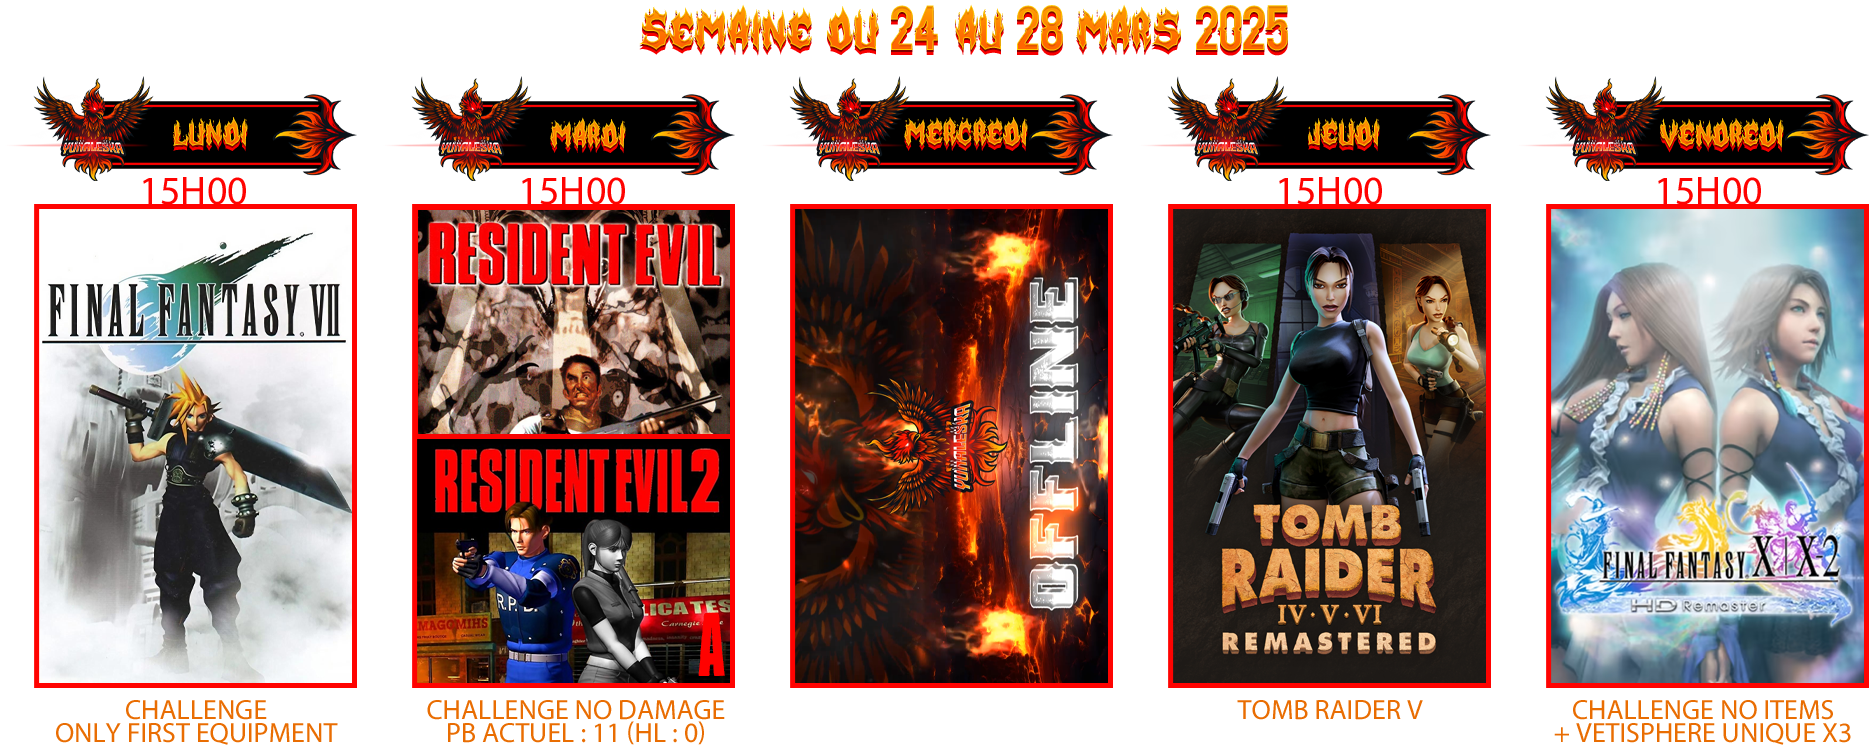
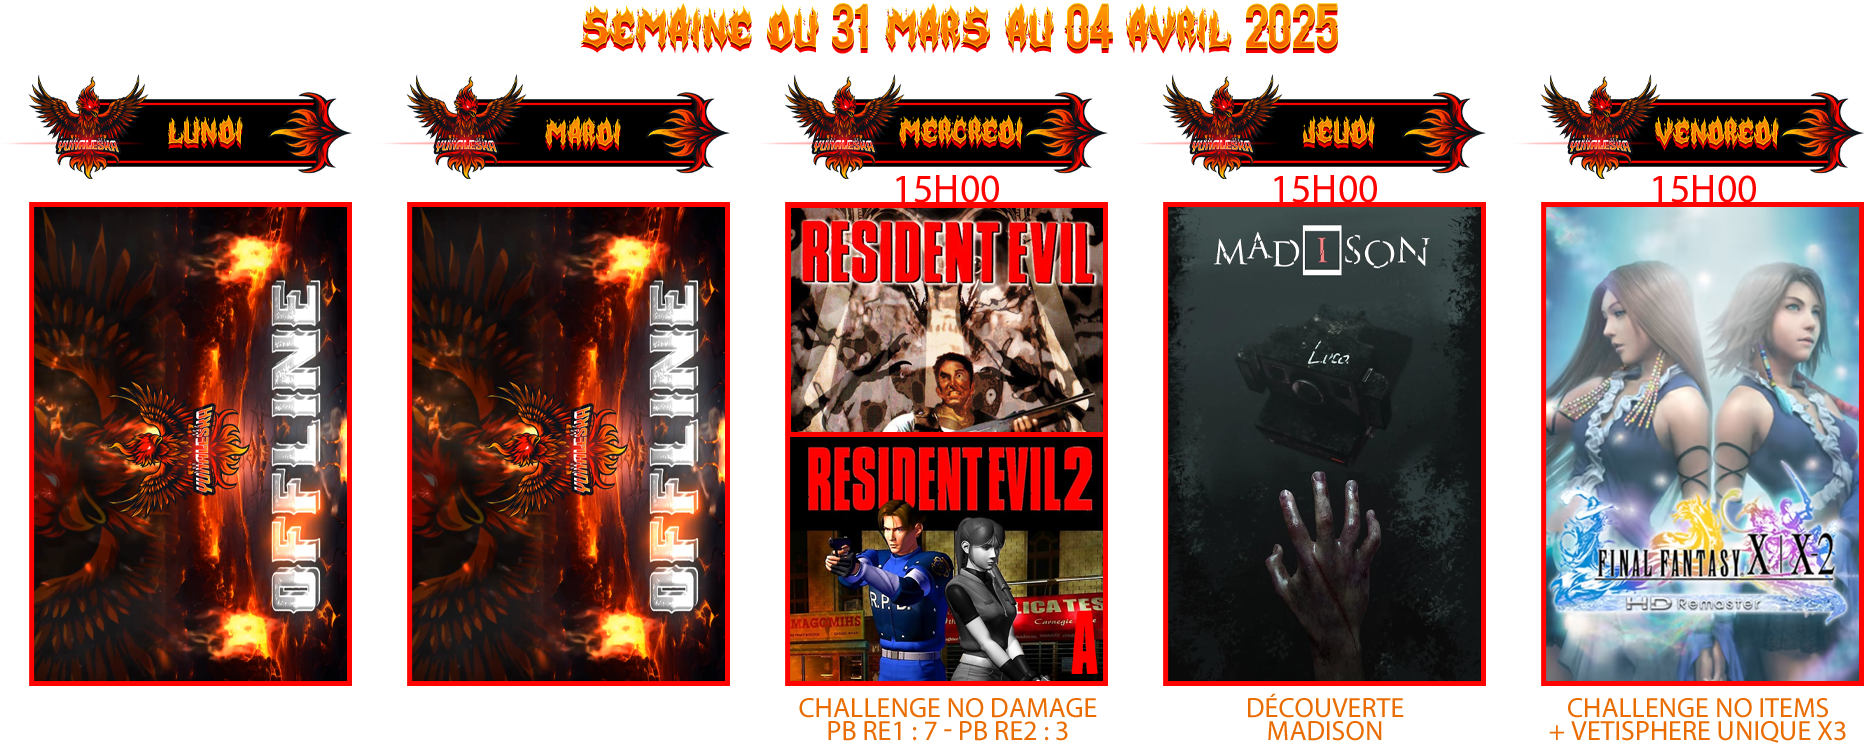
weekly update and new schedule added

diff --git a/index.html b/index.html
@@ -13,6 +13,7 @@
 		<link rel="stylesheet" href="https://use.fontawesome.com/releases/v5.3.1/css/all.css" />
 		<script type="module" src="assets/scripts/utils.js"></script>
 		<script type="module" src="assets/scripts/index.js"></script>
+		<script type="module" src="assets/scripts/sliders.js"></script>
 		<meta content="" name="description" /> 
 		<meta content="width=device-width, initial-scale=1" name="viewport" /> 
 	</head>
@@ -127,7 +128,70 @@
 						</div>
 						<div class="twitch-rewards">
 							<h2>Planning</h2>
-							<img src="assets/images/planning.png" class="index-planning" />
+							<div class="planning-title">
+								<img src="assets/images/schedules/title.png" />
+							</div>
+							<ul id="planning-menu">                                            
+								<li>															
+									<button class="day-slide-changer" data-target="monday">
+										<img src="assets/images/schedules/lundi.png" />
+									</button>													  
+								</li>													  
+								<li>														
+									<button class="day-slide-changer" data-target="tuesday">
+										<img src="assets/images/schedules/mardi.png" />
+									</button>
+								</li>													  
+								<li>														
+									<button class="day-slide-changer" data-target="wednesday">
+										<img src="assets/images/schedules/mercredi.png" />
+									</button>												  
+								</li>													  
+								<li>														
+									<button class="day-slide-changer" data-target="thursday">
+										<img src="assets/images/schedules/jeudi.png" />
+									</button>										  
+								</li>	
+								<li>														
+									<button class="day-slide-changer" data-target="friday">
+										<img src="assets/images/schedules/vendredi.png" />
+									</button>										  
+								</li>													
+							</ul>
+																					
+							<div id="planning-container">									  
+								<div class="slider-days">									
+									<div class="days-content" data-slide="monday">												  
+										<div class="day-tab-content">
+											<img src="assets/images/schedules/monday.png" />
+										</div>															
+									</div>									
+									<div class="days-content" data-slide="tuesday">												  
+										<div class="day-tab-content">
+											<img src="assets/images/schedules/tuesday.png" />
+										</div>															
+									</div>
+																								
+									<div class="days-content" data-slide="wednesday">												  
+										<div class="day-tab-content">
+											<img src="assets/images/schedules/wednesday.png" />
+										</div>															
+									</div>
+																								
+									<div class="days-content" data-slide="thursday">												  
+										<div class="day-tab-content">
+											<img src="assets/images/schedules/thursday.png" />
+										</div>															
+									</div>
+									<div class="days-content" data-slide="friday">												  
+										<div class="day-tab-content">
+											<img src="assets/images/schedules/friday.png" />
+										</div>															
+									</div>
+																							  
+								</div>
+																						
+							</div>
 						</div>
 					</div>
 				</section>

diff --git a/assets/scripts/sliders.js b/assets/scripts/sliders.js
@@ -1,0 +1,55 @@
+      const defineSlider = (sliderElement, slideChangers) => {
+        const slideWidth = sliderElement.children[0].offsetWidth;
+        // Define first element as active by default
+        slideChangers[0].classList.add('is-active');
+
+        const slideToElement = element => {
+          // Remove the active state
+          slideChangers.forEach(el => {
+            el.classList.remove('is-active');
+          });
+          const target = element.getAttribute('data-target');
+          const children = Array.prototype.slice.call(sliderElement.children);
+          const targetIndex = children.findIndex(
+            child => child.getAttribute('data-slide') === target,
+          );
+
+          // slide to element
+          sliderElement.style.transform = `translateX(-${targetIndex * slideWidth}px)`;
+          // Add the active state
+          element.classList.add('is-active');
+        };
+
+        slideChangers.forEach(element => {
+          element.addEventListener('click', () => slideToElement(element));
+        });
+      };
+
+      const defineVerticalTabs = (tabsContainer, tabsButton) => {
+        // Define first element as active by default
+        tabsButton[0].classList.add('is-active');
+        tabsContainer.children[0].classList.add('is-active');
+
+        const displayCorrectTab = element => {
+          // Remove the active state
+          const children = Array.prototype.slice.call(tabsContainer.children);
+          children.forEach(el => {
+            el.classList.remove('is-active');
+          });
+          const target = element.getAttribute('data-tab-target');
+          const targetElement = tabsContainer.querySelector(`[data-tab="${target}"]`);
+
+          // Add the active state
+          element.classList.add('is-active');
+          targetElement.classList.add('is-active');
+        };
+
+        tabsButton.forEach(element => {
+          element.addEventListener('click', () => displayCorrectTab(element));
+        });
+      };
+
+      defineSlider(
+        document.querySelector('.slider-days'),
+        document.querySelectorAll('.day-slide-changer'),
+      );

diff --git a/assets/css/index.css b/assets/css/index.css
@@ -93,15 +93,12 @@ iframe { width: 100%; height: 100%;}
     justify-content: center;
 }
 
-.twitch-rewards img:not(.index-planning) {
+.twitch-rewards-img img {
     width : 56px;
 }
 
-.twitch-rewards:last-of-type { width: 50%;}
+.twitch-rewards:last-of-type { width: 50%; overflow: hidden;}
 
-.index-planning { 
-    width: 100%;
-}
 
 .twitch-section {
     display : flex;
@@ -239,4 +236,85 @@ iframe { width: 100%; height: 100%;}
 .challenge-link {
     color: var(--second-color);
     text-decoration: none;
+}
+
+
+/* PLANNING */
+
+#planning-menu ul {
+    padding: 0;
+    margin: 0;
+    list-style: none;
+}
+
+#planning-menu {
+    width: 100%;
+    text-align: center;
+    padding: 3px 0;
+    list-style: none;
+    margin: 0;
+    display: flex;
+    justify-content: space-around;
+}
+
+.day-slide-changer {
+    border: 0;
+    background: none;
+    cursor: pointer;
+    background: transparent;
+    outline: none;
+    opacity: 0.5;
+    transition: 200ms opacity ease-in-out;
+}
+
+.day-slide-changer:hover,
+.day-slide-changer.is-active {
+    opacity: 1;
+}
+
+#planning-container {
+    transition: all 2s;
+    overflow-x: hidden;
+}
+
+.slider-days {
+    width: 3065px;
+    display: flex;
+    transform: translate3d(0, 0, 0);
+    transition: 300ms transform ease-in-out;
+    text-align: center;
+    align-items: center;
+}
+
+.days-content {
+    width: 100%;
+    float: left;
+    overflow: hidden;
+}
+
+.day-tab {
+    position: absolute;
+    top: 0; left: 0; right: 0; bottom: 0;
+    padding: 8px;
+    transition: 300ms opacity ease-in-out, 300ms transform ease-in-out, 300ms visibility ease-in-out;
+    transform: translateX(20px);
+    opacity: 0;
+    visibility: hidden;
+}
+
+.day.is-active {
+    transform: translateX(0);
+    opacity: 1;
+    visibility: visible;
+}
+
+
+#planning-menu li img { 
+    width: 100%;
+}
+
+.planning-title { text-align: center;}
+
+.planning-title img { 
+    width: 79%;
 }

diff --git a/assets/scripts/footer.js b/assets/scripts/footer.js
@@ -22,7 +22,7 @@ class FooterElement extends HTMLElement {
                       <li class="site-footer__sub-item discord"><a class="site-navigation__link" href="https://discord.gg/r6M5Y2uuT4"></a></li>
                   </ul>
                   <p class="site-footer copyright" ${copyrightId ? `id="${copyrightId}"` : ''}>
-                    © 2024 Yunaleska's Collection. Tous droits réservés.
+                    © 2024-2025 Yunaleska's Collection. Tous droits réservés.
                   </p>
               </footer>
             `;
